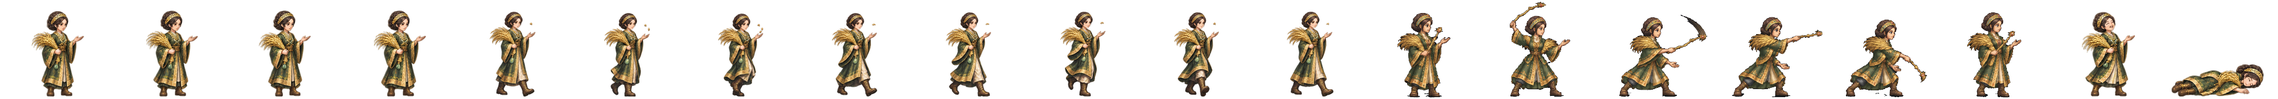
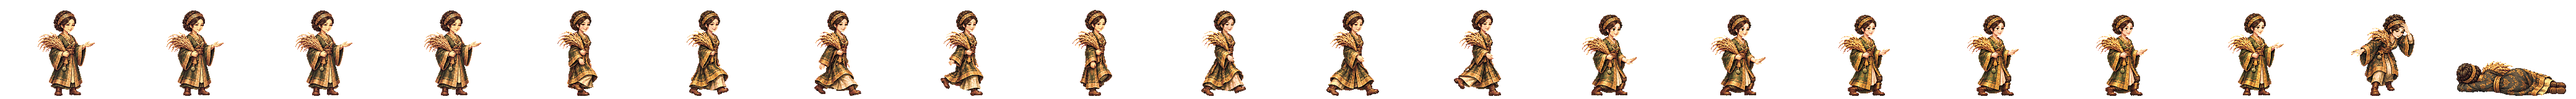
압독 왕비 새 띠: 벼 한 단을 끼고 빈 손바닥으로 곡식 기운을 미는 걷기·시전·개성·맞음·쓰러짐 (띠 검사 합격 · 옛 2배 띠 연결 뺌)
Claude-Session: https://claude.ai/code/session_01TRiuN7s6aDfSnaHxrkctmU

diff --git a/src/realm/data/spritePx.ts b/src/realm/data/spritePx.ts
@@ -1,3 +1,3 @@
 /** public/realm/anim-px/manifest.json 의 사본 — tools/sprite-normalize.mjs 가 만든다 (손으로 고치지 말 것). 칸 [가로, 세로] · feet = 발 줄(칸 위에서 y) · bodyPx = 서 있는 몸 키 */
 import { expandManifest } from './sprite-manifest.ts'
-export const SPRITE_PX: Readonly<Record<string, { readonly cell: readonly [number, number]; readonly feet: number; readonly bodyPx: number; readonly kind: 'general' | 'soldier' | 'folk' | 'crowd'; readonly cells: number }>> = expandManifest<{ readonly cell: readonly [number, number]; readonly feet: number; readonly bodyPx: number; readonly kind: 'general' | 'soldier' | 'folk' | 'crowd'; readonly cells: number }>([{"cell":[166,128],"feet":126,"bodyPx":124,"kind":"soldier","cells":20},{"cell":[116,128],"feet":126,"bodyPx":117,"kind":"soldier","cells":20},{"cell":[127,128],"feet":126,"bodyPx":116,"kind":"soldier","cells":20},{"cell":[269,128],"feet":126,"bodyPx":126,"kind":"soldier","cells":20},{"cell":[503,128],"feet":126,"bodyPx":127,"kind":"soldier","cells":20},{"cell":[614,128],"feet":126,"bodyPx":126,"kind":"soldier","cells":20},{"cell":[200,160],"feet":156,"bodyPx":138,"kind":"general","cells":20},{"cell":[208,160],"feet":155,"bodyPx":138,"kind":"general","cells":20},{"cell":[208,160],"feet":154,"bodyPx":138,"kind":"general","cells":20},{"cell":[304,160],"feet":155,"bodyPx":135,"kind":"general","cells":20},{"cell":[184,160],"feet":156,"bodyPx":138,"kind":"general","cells":20},{"cell":[208,160],"feet":154,"bodyPx":136,"kind":"general","cells":20},{"cell":[232,160],"feet":156,"bodyPx":138,"kind":"general","cells":20},{"cell":[208,160],"feet":156,"bodyPx":138,"kind":"general","cells":20},{"cell":[168,160],"feet":156,"bodyPx":124,"kind":"general","cells":20},{"cell":[216,160],"feet":156,"bodyPx":130,"kind":"general","cells":20},{"cell":[200,160],"feet":156,"bodyPx":116,"kind":"general","cells":20},{"cell":[192,160],"feet":156,"bodyPx":138,"kind":"general","cells":20},{"cell":[208,160],"feet":154,"bodyPx":135,"kind":"general","cells":20},{"cell":[280,160],"feet":156,"bodyPx":138,"kind":"general","cells":20},{"cell":[232,160],"feet":156,"bodyPx":134,"kind":"general","cells":20},{"cell":[144,160],"feet":156,"bodyPx":70,"kind":"general","cells":20},{"cell":[208,160],"feet":156,"bodyPx":70,"kind":"general","cells":20},{"cell":[192,160],"feet":156,"bodyPx":70,"kind":"general","cells":20},{"cell":[240,160],"feet":155,"bodyPx":138,"kind":"general","cells":20},{"cell":[192,160],"feet":156,"bodyPx":128,"kind":"general","cells":20},{"cell":[224,160],"feet":155,"bodyPx":138,"kind":"general","cells":20},{"cell":[208,160],"feet":154,"bodyPx":137,"kind":"general","cells":20},{"cell":[216,160],"feet":156,"bodyPx":138,"kind":"general","cells":20},{"cell":[208,160],"feet":156,"bodyPx":134,"kind":"general","cells":20},{"cell":[208,160],"feet":154,"bodyPx":130,"kind":"general","cells":20},{"cell":[248,160],"feet":156,"bodyPx":138,"kind":"general","cells":20},{"cell":[248,160],"feet":155,"bodyPx":138,"kind":"general","cells":20},{"cell":[192,160],"feet":155,"bodyPx":138,"kind":"general","cells":20},{"cell":[192,160],"feet":156,"bodyPx":124,"kind":"general","cells":20},{"cell":[208,160],"feet":154,"bodyPx":131,"kind":"general","cells":20},{"cell":[256,160],"feet":156,"bodyPx":138,"kind":"general","cells":20},{"cell":[240,160],"feet":156,"bodyPx":138,"kind":"general","cells":20},{"cell":[232,160],"feet":156,"bodyPx":139,"kind":"general","cells":20},{"cell":[232,160],"feet":156,"bodyPx":73,"kind":"general","cells":20},{"cell":[264,160],"feet":156,"bodyPx":138,"kind":"general","cells":20},{"cell":[224,160],"feet":156,"bodyPx":138,"kind":"general","cells":20},{"cell":[224,160],"feet":156,"bodyPx":128,"kind":"general","cells":20},{"cell":[176,160],"feet":156,"bodyPx":129,"kind":"general","cells":20},{"cell":[208,160],"feet":154,"bodyPx":139,"kind":"general","cells":20},{"cell":[232,160],"feet":155,"bodyPx":138,"kind":"general","cells":20},{"cell":[208,160],"feet":156,"bodyPx":132,"kind":"general","cells":20},{"cell":[184,160],"feet":156,"bodyPx":122,"kind":"general","cells":20},{"cell":[280,160],"feet":155,"bodyPx":133,"kind":"general","cells":20},{"cell":[176,160],"feet":156,"bodyPx":70,"kind":"general","cells":20},{"cell":[186,128],"feet":126,"bodyPx":127,"kind":"soldier","cells":20},{"cell":[298,128],"feet":126,"bodyPx":126,"kind":"soldier","cells":20},{"cell":[82,128],"feet":126,"bodyPx":114,"kind":"folk","cells":8},{"cell":[134,128],"feet":126,"bodyPx":119,"kind":"soldier","cells":20},{"cell":[380,128],"feet":126,"bodyPx":124,"kind":"soldier","cells":20},{"cell":[114,128],"feet":126,"bodyPx":115,"kind":"soldier","cells":20},{"cell":[122,128],"feet":126,"bodyPx":114,"kind":"soldier","cells":20},{"cell":[254,128],"feet":126,"bodyPx":128,"kind":"soldier","cells":20},{"cell":[438,128],"feet":126,"bodyPx":126,"kind":"soldier","cells":20},{"cell":[88,128],"feet":126,"bodyPx":113,"kind":"folk","cells":8},{"cell":[100,128],"feet":126,"bodyPx":115,"kind":"folk","cells":8},{"cell":[108,128],"feet":126,"bodyPx":115,"kind":"folk","cells":8},{"cell":[63,128],"feet":126,"bodyPx":113,"kind":"folk","cells":8},{"cell":[69,96],"feet":96,"bodyPx":96,"kind":"crowd","cells":1},{"cell":[54,96],"feet":96,"bodyPx":96,"kind":"crowd","cells":1},{"cell":[47,96],"feet":96,"bodyPx":96,"kind":"crowd","cells":1},{"cell":[49,96],"feet":96,"bodyPx":96,"kind":"crowd","cells":1},{"cell":[57,96],"feet":96,"bodyPx":96,"kind":"crowd","cells":1},{"cell":[55,96],"feet":96,"bodyPx":96,"kind":"crowd","cells":1},{"cell":[45,96],"feet":96,"bodyPx":96,"kind":"crowd","cells":1},{"cell":[53,96],"feet":96,"bodyPx":96,"kind":"crowd","cells":1},{"cell":[64,96],"feet":96,"bodyPx":96,"kind":"crowd","cells":1},{"cell":[184,160],"feet":156,"bodyPx":124,"kind":"general","cells":20},{"cell":[208,160],"feet":154,"bodyPx":134,"kind":"general","cells":20},{"cell":[224,160],"feet":156,"bodyPx":133,"kind":"general","cells":20},{"cell":[192,160],"feet":156,"bodyPx":135,"kind":"general","cells":20},{"cell":[184,160],"feet":156,"bodyPx":137,"kind":"general","cells":20},{"cell":[176,160],"feet":156,"bodyPx":130,"kind":"general","cells":20},{"cell":[216,160],"feet":156,"bodyPx":134,"kind":"general","cells":20},{"cell":[216,160],"feet":156,"bodyPx":132,"kind":"general","cells":20},{"cell":[288,160],"feet":156,"bodyPx":138,"kind":"general","cells":20},{"cell":[192,160],"feet":156,"bodyPx":118,"kind":"general","cells":20},{"cell":[208,160],"feet":154,"bodyPx":132,"kind":"general","cells":20},{"cell":[208,160],"feet":154,"bodyPx":128,"kind":"general","cells":20},{"cell":[240,160],"feet":156,"bodyPx":128,"kind":"general","cells":20},{"cell":[184,160],"feet":156,"bodyPx":132,"kind":"general","cells":20},{"cell":[208,160],"feet":156,"bodyPx":123,"kind":"general","cells":20},{"cell":[176,160],"feet":156,"bodyPx":116,"kind":"general","cells":20},{"cell":[272,160],"feet":156,"bodyPx":138,"kind":"general","cells":20},{"cell":[176,160],"feet":156,"bodyPx":138,"kind":"general","cells":20},{"cell":[176,160],"feet":156,"bodyPx":122,"kind":"general","cells":20},{"cell":[232,160],"feet":156,"bodyPx":127,"kind":"general","cells":20},{"cell":[184,160],"feet":156,"bodyPx":134,"kind":"general","cells":20},{"cell":[168,160],"feet":156,"bodyPx":138,"kind":"general","cells":20},{"cell":[176,160],"feet":156,"bodyPx":137,"kind":"general","cells":20},{"cell":[184,160],"feet":156,"bodyPx":133,"kind":"general","cells":20}],[["axe",0],["bandit-chief",1],["bandit-club",2],["boat",3],["bow",4],["crossbow",5],["gen-adogan",6],["gen-alpyeong",7],["gen-ara",8],["gen-areum",8],["gen-aryeong",9],["gen-bakdal",8],["gen-baram",8],["gen-bdanbi",10],["gen-beom",11],["gen-beombal",8],["gen-beomi",8],["gen-bira",12],["gen-biryu",13],["gen-budeul",8],["gen-byeol",8],["gen-daemusin",14],["gen-daeso",15],["gen-dallae2",10],["gen-dalli",8],["gen-damul",16],["gen-danbi",8],["gen-dangung",17],["gen-darae",18],["gen-dokmudeom",8],["gen-duman",19],["gen-eomni",8],["gen-eureum",20],["gen-g-bow",21],["gen-g-spear",22],["gen-g-sword",23],["gen-gaennae",8],["gen-gamsil",24],["gen-gaon",18],["gen-geota",13],["gen-geumbawi",10],["gen-geumha",25],["gen-goeun",13],["gen-gom",26],["gen-gomok",13],["gen-gureum",8],["gen-guryema",17],["gen-gwaeyu",12],["gen-haebi",8],["gen-haedal",6],["gen-haesol",8],["gen-halla",27],["gen-heo",8],["gen-hneoul",10],["gen-hogong",28],["gen-hojin",13],["gen-horselord",29],["gen-hwalmi",30],["gen-hyeokgeose",17],["gen-hyeopbo",6],["gen-irang",8],["gen-jibaekho",31],["gen-jinha",32],["gen-jita",33],["gen-jumong",34],["gen-keundol",7],["gen-maehwa",35],["gen-maenun",17],["gen-malgalgi",36],["gen-mari",37],["gen-maro",31],["gen-maryeo",13],["gen-mdallae",38],["gen-mir",6],["gen-mount",39],["gen-mulbeom",27],["gen-mulsae",27],["gen-musoe",28],["gen-noeul",8],["gen-nuri",40],["gen-ocheongan",41],["gen-odi",8],["gen-odogan",6],["gen-ogan",17],["gen-oi",42],["gen-olddaeso",20],["gen-onjo",43],["gen-pidogan",13],["gen-sagong",44],["gen-sdallae",6],["gen-sincheongan",8],["gen-singwigan",28],["gen-sinneoul",8],["gen-sobeol",45],["gen-soebi",6],["gen-soebo",46],["gen-soenun",44],["gen-sogeumbi",27],["gen-songbi",41],["gen-songyang",47],["gen-sori",8],["gen-soseono",48],["gen-suro",17],["gen-tahae",6],["gen-tneoul",8],["gen-w-bow",21],["gen-w-spear",49],["gen-waechief",13],["gen-wan",28],["gen-yeodogan",13],["gen-yucheongan",8],["gen-yusugan",31],["horse",50],["marine",51],["migrant",52],["militia",53],["pike",54],["pirate-captain",55],["pirate-sword",56],["shield",57],["spear",58],["villager-builder",59],["villager-farmer",60],["villager-porter",61],["villager-woman",62],["crowd-b1",63],["crowd-b2",64],["crowd-b3",65],["crowd-b4",66],["crowd-b5",67],["crowd-b6",68],["crowd-f1",63],["crowd-f2",68],["crowd-f3",69],["crowd-f4",70],["crowd-f5",63],["crowd-f6",71],["gen-dalbit",13],["gen-base-g-07-drunk-warrior",17],["gen-base-g-40-anya-adan",13],["gen-base-w-13-young-archer",8],["gen-base-g-03-sea-trader",37],["gen-base-w-10-pirate-captain",44],["gen-base-w-64-miri-dallae",44],["gen-base-g-41-goja-bau",37],["gen-base-g-42-dokro-garam",40],["gen-base-g-09-farmer-conscript",28],["gen-base-w-02-goguryeo-lady",8],["gen-base-w-17-mahan-pearl-diver",8],["gen-base-g-17-saro-isageum",46],["gen-base-g-18-daegaya-king",72],["gen-base-g-35-dabeol-dalgu",13],["gen-base-g-19-sabeol-veteran",28],["gen-base-w-23-usisan-whale-queen",8],["gen-base-g-36-gammun-gamdol",41],["gen-base-g-20-samul-sea-lord",36],["gen-base-g-37-eumjeup-jeup",10],["gen-base-g-38-chopal-palmae",17],["gen-base-w-75-daegaya-soemoe",17],["gen-base-g-45-dabeol-deulgae",10],["gen-base-g-04-jinhan-giant",13],["gen-base-g-08-veteran",13],["gen-base-w-18-jinhan-salt-widow",8],["gen-base-w-12-court-dancer",73],["gen-base-w-83-gyeonji-beodeul",74],["gen-base-w-05-baekje-queen",75],["gen-base-w-21-baekje-court-dancer",10],["gen-base-g-01-master-smith",76],["gen-base-g-93-jomun-solgae",77],["gen-base-g-57-bihwa-neup",37],["gen-base-w-72-eumjeup-beol",8],["gen-base-w-102-garak-dana",44],["gen-base-g-68-baekje-onnuri",13],["gen-base-w-27-mokji-jinha",6],["gen-base-g-22-ungcheon-gomnae",6],["gen-base-g-23-sangdang-soedal",13],["gen-base-g-24-wansan-onsan",6],["gen-base-g-25-balla-keunmoe",28],["gen-base-g-61-heomcheuk-bawi",28],["gen-base-g-88-wander-soeul",41],["gen-base-w-14-feast-spy",8],["gen-base-g-12-silla-youth",78],["gen-base-w-08-mahan-warrior",8],["gen-base-g-62-beonye-hanul",37],["gen-base-g-63-heomcheuk-beogeum",13],["gen-base-g-84-wander-seoneul",13],["gen-base-w-50-siljik-mulga",28],["gen-base-g-46-uga-nureongso",28],["gen-base-w-80-usan-gangchi",44],["gen-base-g-47-guga-sanyanggae",28],["gen-base-w-76-gampyeong-baetsagong",8],["gen-base-g-05-mahan-chieftain",79],["gen-base-g-58-usan-uhae",13],["gen-base-g-27-maek-maekdol",13],["gen-base-w-53-hwanna-gabi",44],["gen-base-w-29-golpo-janmul",31],["gen-base-g-53-baekje-haeru",6],["gen-base-w-71-yeonna-neoul",8],["gen-base-w-79-yangmaek-solmae",8],["gen-base-w-34-chopal-deulme",8],["gen-base-g-44-maga-malgup",80],["gen-base-w-31-dabeol-dalbit",44],["gen-base-g-51-biryuna-mulgyeol",41],["gen-base-g-48-gwanna-musoe",13],["gen-base-g-32-uga-sodu",12],["gen-base-g-49-goguryeo-sona",81],["gen-base-g-30-gwanna-soemoe",41],["gen-base-g-52-tamna-oreum",10],["gen-base-g-29-yeonna-myeongsol",34],["gen-base-w-56-dongokjeo-sogeum",73],["gen-base-g-54-mokji-mahan",12],["gen-base-g-33-jeoga-metdol",17],["gen-base-w-36-baekje-maena",8],["gen-base-w-38-sangdang-bulmae",6],["gen-base-w-39-gosaburi-galmae",8],["gen-base-w-40-mujin-munui",82],["gen-base-w-41-hwanna-beodeul",83],["gen-base-w-43-uga-nuri",36],["gen-base-w-45-tamna-oreumbi",10],["gen-base-g-60-golbeol-golgae",10],["gen-base-g-61-apdok-ap",28],["gen-base-g-62-gammun-gamnamu",6],["gen-base-g-63-chopal-yeoul",31],["gen-base-g-64-michuhol-sogeumkkun",37],["gen-base-g-65-sangdang-soemangchi",41],["gen-base-g-66-geonma-malbalgup",84],["gen-base-g-67-gosaburi-buri",85],["gen-base-g-68-mujin-bitgoeul",10],["gen-base-g-69-goryong-yong",41],["gen-base-g-70-siljik-pado",37],["gen-base-w-81-byeokjin-byeolbit",8],["gen-base-w-46-geonma-maru",8],["gen-base-w-48-mujin-mudeung",8],["gen-base-g-26-gampyeong-gaetbeol",12],["gen-base-g-60-eupcha-hangyeol",86],["gen-base-g-15-shaman-man",28],["gen-base-g-85-wander-ure",31],["gen-base-g-43-hwanna-amnok",13],["gen-base-g-50-bullae-gwaha",75],["gen-base-g-55-saro-bakdal",13],["gen-base-g-56-haseulla-gwahama",6],["gen-base-w-06-buyeo-huntress",27],["gen-base-w-22-dongye-tiger-huntress",8],["gen-base-w-25-bihwa-priestess",8],["gen-base-w-24-apdok-queen",10],["gen-base-w-61-iseo-sinae",13],["gen-base-w-26-iseo-tomboy-general",8],["gen-base-g-59-yangmaek-maekson",87],["gen-aw1-haebi",41],["gen-aw1-soseono",88],["gen-aw1-gamsil",10],["gen-aw1-mir",89],["gen-aw1-dangung",6],["gen-aw1-ara",41],["gen-aw1-jumong",90],["gen-aw1-onjo",91],["gen-aw1-base-w-83-gyeonji-beodeul",17],["gen-aw1-heo",40],["gen-aw1-base-g-38-chopal-palmae",6],["gen-aw1-base-w-25-bihwa-priestess",92],["gen-aw1-sori",93],["gen-aw1-gomok",6],["gen-aw1-irang",17],["gen-aw1-budeul",93],["gen-aw1-gom",37],["gen-aw1-sdallae",6],["gen-aw1-base-w-13-young-archer",6],["gen-aw1-base-w-36-baekje-maena",94],["gen-aw1-base-g-09-farmer-conscript",40],["gen-aw1-base-w-02-goguryeo-lady",95],["gen-aw1-haedal",10],["gen-aw1-hogong",6],["gen-aw1-maehwa",89],["gen-aw1-base-w-06-buyeo-huntress",12],["gen-aw1-base-w-08-mahan-warrior",41],["gen-aw1-base-w-29-golpo-janmul",41],["gen-aw1-base-w-31-dabeol-dalbit",17],["gen-aw1-base-w-38-sangdang-bulmae",93],["gen-aw1-bira",28],["gen-aw1-base-w-53-hwanna-gabi",93],["gen-aw1-base-w-56-dongokjeo-sogeum",89],["gen-aw1-base-w-72-eumjeup-beol",17],["gen-aw1-bdanbi",93],["gen-aw1-beom",10],["gen-aw1-beombal",10],["gen-aw1-byeol",17],["gen-aw1-dalli",89],["gen-aw1-malgalgi",31],["gen-aw1-sincheongan",28]])
+export const SPRITE_PX: Readonly<Record<string, { readonly cell: readonly [number, number]; readonly feet: number; readonly bodyPx: number; readonly kind: 'general' | 'soldier' | 'folk' | 'crowd'; readonly cells: number }>> = expandManifest<{ readonly cell: readonly [number, number]; readonly feet: number; readonly bodyPx: number; readonly kind: 'general' | 'soldier' | 'folk' | 'crowd'; readonly cells: number }>([{"cell":[166,128],"feet":126,"bodyPx":124,"kind":"soldier","cells":20},{"cell":[116,128],"feet":126,"bodyPx":117,"kind":"soldier","cells":20},{"cell":[127,128],"feet":126,"bodyPx":116,"kind":"soldier","cells":20},{"cell":[269,128],"feet":126,"bodyPx":126,"kind":"soldier","cells":20},{"cell":[503,128],"feet":126,"bodyPx":127,"kind":"soldier","cells":20},{"cell":[614,128],"feet":126,"bodyPx":126,"kind":"soldier","cells":20},{"cell":[200,160],"feet":156,"bodyPx":138,"kind":"general","cells":20},{"cell":[208,160],"feet":155,"bodyPx":138,"kind":"general","cells":20},{"cell":[208,160],"feet":154,"bodyPx":138,"kind":"general","cells":20},{"cell":[304,160],"feet":155,"bodyPx":135,"kind":"general","cells":20},{"cell":[184,160],"feet":156,"bodyPx":138,"kind":"general","cells":20},{"cell":[208,160],"feet":154,"bodyPx":136,"kind":"general","cells":20},{"cell":[232,160],"feet":156,"bodyPx":138,"kind":"general","cells":20},{"cell":[208,160],"feet":156,"bodyPx":138,"kind":"general","cells":20},{"cell":[168,160],"feet":156,"bodyPx":124,"kind":"general","cells":20},{"cell":[216,160],"feet":156,"bodyPx":130,"kind":"general","cells":20},{"cell":[200,160],"feet":156,"bodyPx":116,"kind":"general","cells":20},{"cell":[192,160],"feet":156,"bodyPx":138,"kind":"general","cells":20},{"cell":[208,160],"feet":154,"bodyPx":135,"kind":"general","cells":20},{"cell":[280,160],"feet":156,"bodyPx":138,"kind":"general","cells":20},{"cell":[232,160],"feet":156,"bodyPx":134,"kind":"general","cells":20},{"cell":[144,160],"feet":156,"bodyPx":70,"kind":"general","cells":20},{"cell":[208,160],"feet":156,"bodyPx":70,"kind":"general","cells":20},{"cell":[192,160],"feet":156,"bodyPx":70,"kind":"general","cells":20},{"cell":[240,160],"feet":155,"bodyPx":138,"kind":"general","cells":20},{"cell":[192,160],"feet":156,"bodyPx":128,"kind":"general","cells":20},{"cell":[224,160],"feet":155,"bodyPx":138,"kind":"general","cells":20},{"cell":[208,160],"feet":154,"bodyPx":137,"kind":"general","cells":20},{"cell":[216,160],"feet":156,"bodyPx":138,"kind":"general","cells":20},{"cell":[208,160],"feet":156,"bodyPx":134,"kind":"general","cells":20},{"cell":[208,160],"feet":154,"bodyPx":130,"kind":"general","cells":20},{"cell":[248,160],"feet":156,"bodyPx":138,"kind":"general","cells":20},{"cell":[248,160],"feet":155,"bodyPx":138,"kind":"general","cells":20},{"cell":[192,160],"feet":155,"bodyPx":138,"kind":"general","cells":20},{"cell":[192,160],"feet":156,"bodyPx":124,"kind":"general","cells":20},{"cell":[208,160],"feet":154,"bodyPx":131,"kind":"general","cells":20},{"cell":[256,160],"feet":156,"bodyPx":138,"kind":"general","cells":20},{"cell":[240,160],"feet":156,"bodyPx":138,"kind":"general","cells":20},{"cell":[232,160],"feet":156,"bodyPx":139,"kind":"general","cells":20},{"cell":[232,160],"feet":156,"bodyPx":73,"kind":"general","cells":20},{"cell":[264,160],"feet":156,"bodyPx":138,"kind":"general","cells":20},{"cell":[224,160],"feet":156,"bodyPx":138,"kind":"general","cells":20},{"cell":[224,160],"feet":156,"bodyPx":128,"kind":"general","cells":20},{"cell":[176,160],"feet":156,"bodyPx":129,"kind":"general","cells":20},{"cell":[208,160],"feet":154,"bodyPx":139,"kind":"general","cells":20},{"cell":[232,160],"feet":155,"bodyPx":138,"kind":"general","cells":20},{"cell":[208,160],"feet":156,"bodyPx":132,"kind":"general","cells":20},{"cell":[184,160],"feet":156,"bodyPx":122,"kind":"general","cells":20},{"cell":[280,160],"feet":155,"bodyPx":133,"kind":"general","cells":20},{"cell":[176,160],"feet":156,"bodyPx":70,"kind":"general","cells":20},{"cell":[186,128],"feet":126,"bodyPx":127,"kind":"soldier","cells":20},{"cell":[298,128],"feet":126,"bodyPx":126,"kind":"soldier","cells":20},{"cell":[82,128],"feet":126,"bodyPx":114,"kind":"folk","cells":8},{"cell":[134,128],"feet":126,"bodyPx":119,"kind":"soldier","cells":20},{"cell":[380,128],"feet":126,"bodyPx":124,"kind":"soldier","cells":20},{"cell":[114,128],"feet":126,"bodyPx":115,"kind":"soldier","cells":20},{"cell":[122,128],"feet":126,"bodyPx":114,"kind":"soldier","cells":20},{"cell":[254,128],"feet":126,"bodyPx":128,"kind":"soldier","cells":20},{"cell":[438,128],"feet":126,"bodyPx":126,"kind":"soldier","cells":20},{"cell":[88,128],"feet":126,"bodyPx":113,"kind":"folk","cells":8},{"cell":[100,128],"feet":126,"bodyPx":115,"kind":"folk","cells":8},{"cell":[108,128],"feet":126,"bodyPx":115,"kind":"folk","cells":8},{"cell":[63,128],"feet":126,"bodyPx":113,"kind":"folk","cells":8},{"cell":[69,96],"feet":96,"bodyPx":96,"kind":"crowd","cells":1},{"cell":[54,96],"feet":96,"bodyPx":96,"kind":"crowd","cells":1},{"cell":[47,96],"feet":96,"bodyPx":96,"kind":"crowd","cells":1},{"cell":[49,96],"feet":96,"bodyPx":96,"kind":"crowd","cells":1},{"cell":[57,96],"feet":96,"bodyPx":96,"kind":"crowd","cells":1},{"cell":[55,96],"feet":96,"bodyPx":96,"kind":"crowd","cells":1},{"cell":[45,96],"feet":96,"bodyPx":96,"kind":"crowd","cells":1},{"cell":[53,96],"feet":96,"bodyPx":96,"kind":"crowd","cells":1},{"cell":[64,96],"feet":96,"bodyPx":96,"kind":"crowd","cells":1},{"cell":[184,160],"feet":156,"bodyPx":124,"kind":"general","cells":20},{"cell":[208,160],"feet":154,"bodyPx":134,"kind":"general","cells":20},{"cell":[224,160],"feet":156,"bodyPx":133,"kind":"general","cells":20},{"cell":[192,160],"feet":156,"bodyPx":135,"kind":"general","cells":20},{"cell":[184,160],"feet":156,"bodyPx":137,"kind":"general","cells":20},{"cell":[176,160],"feet":156,"bodyPx":130,"kind":"general","cells":20},{"cell":[216,160],"feet":156,"bodyPx":134,"kind":"general","cells":20},{"cell":[216,160],"feet":156,"bodyPx":132,"kind":"general","cells":20},{"cell":[288,160],"feet":156,"bodyPx":138,"kind":"general","cells":20},{"cell":[192,160],"feet":156,"bodyPx":118,"kind":"general","cells":20},{"cell":[208,160],"feet":154,"bodyPx":132,"kind":"general","cells":20},{"cell":[208,160],"feet":154,"bodyPx":128,"kind":"general","cells":20},{"cell":[240,160],"feet":156,"bodyPx":128,"kind":"general","cells":20},{"cell":[184,160],"feet":156,"bodyPx":132,"kind":"general","cells":20},{"cell":[208,160],"feet":156,"bodyPx":123,"kind":"general","cells":20},{"cell":[176,160],"feet":156,"bodyPx":116,"kind":"general","cells":20},{"cell":[272,160],"feet":156,"bodyPx":138,"kind":"general","cells":20},{"cell":[176,160],"feet":156,"bodyPx":138,"kind":"general","cells":20},{"cell":[176,160],"feet":156,"bodyPx":122,"kind":"general","cells":20},{"cell":[232,160],"feet":156,"bodyPx":127,"kind":"general","cells":20},{"cell":[184,160],"feet":156,"bodyPx":134,"kind":"general","cells":20},{"cell":[168,160],"feet":156,"bodyPx":138,"kind":"general","cells":20},{"cell":[176,160],"feet":156,"bodyPx":137,"kind":"general","cells":20},{"cell":[184,160],"feet":156,"bodyPx":133,"kind":"general","cells":20}],[["axe",0],["bandit-chief",1],["bandit-club",2],["boat",3],["bow",4],["crossbow",5],["gen-adogan",6],["gen-alpyeong",7],["gen-ara",8],["gen-areum",8],["gen-aryeong",9],["gen-bakdal",8],["gen-baram",8],["gen-bdanbi",10],["gen-beom",11],["gen-beombal",8],["gen-beomi",8],["gen-bira",12],["gen-biryu",13],["gen-budeul",8],["gen-byeol",8],["gen-daemusin",14],["gen-daeso",15],["gen-dallae2",10],["gen-dalli",8],["gen-damul",16],["gen-danbi",8],["gen-dangung",17],["gen-darae",18],["gen-dokmudeom",8],["gen-duman",19],["gen-eomni",8],["gen-eureum",20],["gen-g-bow",21],["gen-g-spear",22],["gen-g-sword",23],["gen-gaennae",8],["gen-gamsil",24],["gen-gaon",18],["gen-geota",13],["gen-geumbawi",10],["gen-geumha",25],["gen-goeun",13],["gen-gom",26],["gen-gomok",13],["gen-gureum",8],["gen-guryema",17],["gen-gwaeyu",12],["gen-haebi",8],["gen-haedal",6],["gen-haesol",8],["gen-halla",27],["gen-heo",8],["gen-hneoul",10],["gen-hogong",28],["gen-hojin",13],["gen-horselord",29],["gen-hwalmi",30],["gen-hyeokgeose",17],["gen-hyeopbo",6],["gen-irang",8],["gen-jibaekho",31],["gen-jinha",32],["gen-jita",33],["gen-jumong",34],["gen-keundol",7],["gen-maehwa",35],["gen-maenun",17],["gen-malgalgi",36],["gen-mari",37],["gen-maro",31],["gen-maryeo",13],["gen-mdallae",38],["gen-mir",6],["gen-mount",39],["gen-mulbeom",27],["gen-mulsae",27],["gen-musoe",28],["gen-noeul",8],["gen-nuri",40],["gen-ocheongan",41],["gen-odi",8],["gen-odogan",6],["gen-ogan",17],["gen-oi",42],["gen-olddaeso",20],["gen-onjo",43],["gen-pidogan",13],["gen-sagong",44],["gen-sdallae",6],["gen-sincheongan",8],["gen-singwigan",28],["gen-sinneoul",8],["gen-sobeol",45],["gen-soebi",6],["gen-soebo",46],["gen-soenun",44],["gen-sogeumbi",27],["gen-songbi",41],["gen-songyang",47],["gen-sori",8],["gen-soseono",48],["gen-suro",17],["gen-tahae",6],["gen-tneoul",8],["gen-w-bow",21],["gen-w-spear",49],["gen-waechief",13],["gen-wan",28],["gen-yeodogan",13],["gen-yucheongan",8],["gen-yusugan",31],["horse",50],["marine",51],["migrant",52],["militia",53],["pike",54],["pirate-captain",55],["pirate-sword",56],["shield",57],["spear",58],["villager-builder",59],["villager-farmer",60],["villager-porter",61],["villager-woman",62],["crowd-b1",63],["crowd-b2",64],["crowd-b3",65],["crowd-b4",66],["crowd-b5",67],["crowd-b6",68],["crowd-f1",63],["crowd-f2",68],["crowd-f3",69],["crowd-f4",70],["crowd-f5",63],["crowd-f6",71],["gen-dalbit",13],["gen-base-g-07-drunk-warrior",17],["gen-base-g-40-anya-adan",13],["gen-base-w-13-young-archer",8],["gen-base-g-03-sea-trader",37],["gen-base-w-10-pirate-captain",44],["gen-base-w-64-miri-dallae",44],["gen-base-g-41-goja-bau",37],["gen-base-g-42-dokro-garam",40],["gen-base-g-09-farmer-conscript",28],["gen-base-w-02-goguryeo-lady",8],["gen-base-w-17-mahan-pearl-diver",8],["gen-base-g-17-saro-isageum",46],["gen-base-g-18-daegaya-king",72],["gen-base-g-35-dabeol-dalgu",13],["gen-base-g-19-sabeol-veteran",28],["gen-base-w-23-usisan-whale-queen",8],["gen-base-g-36-gammun-gamdol",41],["gen-base-g-20-samul-sea-lord",36],["gen-base-g-37-eumjeup-jeup",10],["gen-base-g-38-chopal-palmae",17],["gen-base-w-75-daegaya-soemoe",17],["gen-base-g-45-dabeol-deulgae",10],["gen-base-g-04-jinhan-giant",13],["gen-base-g-08-veteran",13],["gen-base-w-18-jinhan-salt-widow",8],["gen-base-w-12-court-dancer",73],["gen-base-w-83-gyeonji-beodeul",74],["gen-base-w-05-baekje-queen",75],["gen-base-w-21-baekje-court-dancer",10],["gen-base-g-01-master-smith",76],["gen-base-g-93-jomun-solgae",77],["gen-base-g-57-bihwa-neup",37],["gen-base-w-72-eumjeup-beol",8],["gen-base-w-102-garak-dana",44],["gen-base-g-68-baekje-onnuri",13],["gen-base-w-27-mokji-jinha",6],["gen-base-g-22-ungcheon-gomnae",6],["gen-base-g-23-sangdang-soedal",13],["gen-base-g-24-wansan-onsan",6],["gen-base-g-25-balla-keunmoe",28],["gen-base-g-61-heomcheuk-bawi",28],["gen-base-g-88-wander-soeul",41],["gen-base-w-14-feast-spy",8],["gen-base-g-12-silla-youth",78],["gen-base-w-08-mahan-warrior",8],["gen-base-g-62-beonye-hanul",37],["gen-base-g-63-heomcheuk-beogeum",13],["gen-base-g-84-wander-seoneul",13],["gen-base-w-50-siljik-mulga",28],["gen-base-g-46-uga-nureongso",28],["gen-base-w-80-usan-gangchi",44],["gen-base-g-47-guga-sanyanggae",28],["gen-base-w-76-gampyeong-baetsagong",8],["gen-base-g-05-mahan-chieftain",79],["gen-base-g-58-usan-uhae",13],["gen-base-g-27-maek-maekdol",13],["gen-base-w-53-hwanna-gabi",44],["gen-base-w-29-golpo-janmul",31],["gen-base-g-53-baekje-haeru",6],["gen-base-w-71-yeonna-neoul",8],["gen-base-w-79-yangmaek-solmae",8],["gen-base-w-34-chopal-deulme",8],["gen-base-g-44-maga-malgup",80],["gen-base-w-31-dabeol-dalbit",44],["gen-base-g-51-biryuna-mulgyeol",41],["gen-base-g-48-gwanna-musoe",13],["gen-base-g-32-uga-sodu",12],["gen-base-g-49-goguryeo-sona",81],["gen-base-g-30-gwanna-soemoe",41],["gen-base-g-52-tamna-oreum",10],["gen-base-g-29-yeonna-myeongsol",34],["gen-base-w-56-dongokjeo-sogeum",73],["gen-base-g-54-mokji-mahan",12],["gen-base-g-33-jeoga-metdol",17],["gen-base-w-36-baekje-maena",8],["gen-base-w-38-sangdang-bulmae",6],["gen-base-w-39-gosaburi-galmae",8],["gen-base-w-40-mujin-munui",82],["gen-base-w-41-hwanna-beodeul",83],["gen-base-w-43-uga-nuri",36],["gen-base-w-45-tamna-oreumbi",10],["gen-base-g-60-golbeol-golgae",10],["gen-base-g-61-apdok-ap",28],["gen-base-g-62-gammun-gamnamu",6],["gen-base-g-63-chopal-yeoul",31],["gen-base-g-64-michuhol-sogeumkkun",37],["gen-base-g-65-sangdang-soemangchi",41],["gen-base-g-66-geonma-malbalgup",84],["gen-base-g-67-gosaburi-buri",85],["gen-base-g-68-mujin-bitgoeul",10],["gen-base-g-69-goryong-yong",41],["gen-base-g-70-siljik-pado",37],["gen-base-w-81-byeokjin-byeolbit",8],["gen-base-w-46-geonma-maru",8],["gen-base-w-48-mujin-mudeung",8],["gen-base-g-26-gampyeong-gaetbeol",12],["gen-base-g-60-eupcha-hangyeol",86],["gen-base-g-15-shaman-man",28],["gen-base-g-85-wander-ure",31],["gen-base-g-43-hwanna-amnok",13],["gen-base-g-50-bullae-gwaha",75],["gen-base-g-55-saro-bakdal",13],["gen-base-g-56-haseulla-gwahama",6],["gen-base-w-06-buyeo-huntress",27],["gen-base-w-22-dongye-tiger-huntress",8],["gen-base-w-25-bihwa-priestess",8],["gen-base-w-24-apdok-queen",8],["gen-base-w-61-iseo-sinae",13],["gen-base-w-26-iseo-tomboy-general",8],["gen-base-g-59-yangmaek-maekson",87],["gen-aw1-haebi",41],["gen-aw1-soseono",88],["gen-aw1-gamsil",10],["gen-aw1-mir",89],["gen-aw1-dangung",6],["gen-aw1-ara",41],["gen-aw1-jumong",90],["gen-aw1-onjo",91],["gen-aw1-base-w-83-gyeonji-beodeul",17],["gen-aw1-heo",40],["gen-aw1-base-g-38-chopal-palmae",6],["gen-aw1-base-w-25-bihwa-priestess",92],["gen-aw1-sori",93],["gen-aw1-gomok",6],["gen-aw1-irang",17],["gen-aw1-budeul",93],["gen-aw1-gom",37],["gen-aw1-sdallae",6],["gen-aw1-base-w-13-young-archer",6],["gen-aw1-base-w-36-baekje-maena",94],["gen-aw1-base-g-09-farmer-conscript",40],["gen-aw1-base-w-02-goguryeo-lady",95],["gen-aw1-haedal",10],["gen-aw1-hogong",6],["gen-aw1-maehwa",89],["gen-aw1-base-w-06-buyeo-huntress",12],["gen-aw1-base-w-08-mahan-warrior",41],["gen-aw1-base-w-29-golpo-janmul",41],["gen-aw1-base-w-31-dabeol-dalbit",17],["gen-aw1-base-w-38-sangdang-bulmae",93],["gen-aw1-bira",28],["gen-aw1-base-w-53-hwanna-gabi",93],["gen-aw1-base-w-56-dongokjeo-sogeum",89],["gen-aw1-base-w-72-eumjeup-beol",17],["gen-aw1-bdanbi",93],["gen-aw1-beom",10],["gen-aw1-beombal",10],["gen-aw1-byeol",17],["gen-aw1-dalli",89],["gen-aw1-malgalgi",31],["gen-aw1-sincheongan",28]])

diff --git a/src/duel/view.ts b/src/duel/view.ts
@@ -100,7 +100,7 @@ const crowdFront = [1, 2, 3, 4, 5, 6].map((i) => img(`realm/duel/crowd/b${i}.png
 const crowdReady = (set: HTMLImageElement[]): boolean => set.every((im) => im.complete && im.naturalWidth > 0)
 const pxMode = cfg.px !== false && params.get('px') !== '0'
 /** 겨루기 전용 옛 띠(duel/sprites) 대신 열전과 같은 도트 띠(anim-px)를 쓰는 장수 — 두 판에서 같은 모습 · 서기 계획·쓰러지는 칸도 같다 (11-23 범 · 매화 · 달빛 · 11-24 해비 · 아룸) */
-const PX_DUEL: ReadonlySet<string> = new Set(['beom', 'maehwa', 'base-w-31-dabeol-dalbit', 'haebi', 'areum', 'base-w-13-young-archer', 'base-w-10-pirate-captain', 'base-w-17-mahan-pearl-diver', 'base-w-06-buyeo-huntress', 'base-w-64-miri-dallae', 'ara', 'base-w-22-dongye-tiger-huntress', 'noeul', 'sagong', 'sinneoul', 'heo', 'base-w-08-mahan-warrior', 'base-w-23-usisan-whale-queen', 'base-w-26-iseo-tomboy-general', 'base-w-72-eumjeup-beol', 'tneoul', 'odi', 'base-w-76-gampyeong-baetsagong', 'base-w-34-chopal-deulme', 'base-w-102-garak-dana', 'base-w-36-baekje-maena', 'base-w-56-dongokjeo-sogeum', 'budeul', 'base-w-53-hwanna-gabi', 'base-w-18-jinhan-salt-widow', 'beombal', 'irang', 'sogeumbi', 'baram', 'byeol', 'base-w-71-yeonna-neoul', 'base-w-39-gosaburi-galmae', 'base-w-41-hwanna-beodeul', 'base-w-79-yangmaek-solmae', 'base-w-46-geonma-maru', 'base-w-48-mujin-mudeung', 'base-w-80-usan-gangchi', 'base-w-81-byeokjin-byeolbit', 'beomi', 'danbi', 'dalli', 'gureum', 'haesol', 'soenun', 'eomni', 'mulbeom', 'mulsae', 'bakdal', 'darae', 'sori', 'base-w-12-court-dancer', 'hwalmi', 'gaennae', 'dokmudeom', 'base-w-14-feast-spy', 'base-w-25-bihwa-priestess', 'sincheongan', 'base-w-40-mujin-munui', 'halla', 'yucheongan', 'base-w-02-goguryeo-lady', 'gaon'])
+const PX_DUEL: ReadonlySet<string> = new Set(['beom', 'maehwa', 'base-w-31-dabeol-dalbit', 'haebi', 'areum', 'base-w-13-young-archer', 'base-w-10-pirate-captain', 'base-w-17-mahan-pearl-diver', 'base-w-06-buyeo-huntress', 'base-w-64-miri-dallae', 'ara', 'base-w-22-dongye-tiger-huntress', 'noeul', 'sagong', 'sinneoul', 'heo', 'base-w-08-mahan-warrior', 'base-w-23-usisan-whale-queen', 'base-w-26-iseo-tomboy-general', 'base-w-72-eumjeup-beol', 'tneoul', 'odi', 'base-w-76-gampyeong-baetsagong', 'base-w-34-chopal-deulme', 'base-w-102-garak-dana', 'base-w-36-baekje-maena', 'base-w-56-dongokjeo-sogeum', 'budeul', 'base-w-53-hwanna-gabi', 'base-w-18-jinhan-salt-widow', 'beombal', 'irang', 'sogeumbi', 'baram', 'byeol', 'base-w-71-yeonna-neoul', 'base-w-39-gosaburi-galmae', 'base-w-41-hwanna-beodeul', 'base-w-79-yangmaek-solmae', 'base-w-46-geonma-maru', 'base-w-48-mujin-mudeung', 'base-w-80-usan-gangchi', 'base-w-81-byeokjin-byeolbit', 'beomi', 'danbi', 'dalli', 'gureum', 'haesol', 'soenun', 'eomni', 'mulbeom', 'mulsae', 'bakdal', 'darae', 'sori', 'base-w-12-court-dancer', 'hwalmi', 'gaennae', 'dokmudeom', 'base-w-14-feast-spy', 'base-w-25-bihwa-priestess', 'sincheongan', 'base-w-40-mujin-munui', 'halla', 'yucheongan', 'base-w-02-goguryeo-lady', 'gaon', 'base-w-24-apdok-queen'])
 /** 띠 그림 — 기본은 anim-px(도트 규격) 먼저, 없으면 옛 띠로 (img 의 onerror 가 갈아 끼운다) */
 const strip = (s: string): HTMLImageElement => pxMode
   ? DUEL_ATLASES[s] !== undefined && !PX_DUEL.has(s) ? img(`realm/duel/sprites/gen-${s}.png`, `realm/anim-px/gen-${s}.png`)

diff --git a/src/tune/params.ts b/src/tune/params.ts
@@ -1527,6 +1527,7 @@ export const HAEBI_IDLE = {
     yucheongan: { cells: 38, base: [0, 1], hold: 2.4, fall: [18, 20, 21, 19], quirk: [22, 23, 24, 25], quirkTimes: [.3, .32, .4, .28], attack: { cells: [26, 27, 28, 29, 30, 31, 32, 33], times: [.09, .08, .30, .05, .15, .07, .08, .12], hit: 4 }, hurt: [34, 35], rise: [36, 37], xGeom: { h: 224, root: 92, foot: 216 } },
     'base-w-02-goguryeo-lady': { cells: 38, base: [0, 1], hold: 2.4, fall: [18, 20, 21, 19], quirk: [22, 23, 24, 25], quirkTimes: [.3, .32, .4, .28], attack: { cells: [26, 27, 28, 29, 30, 31, 32, 33], times: [.09, .08, .30, .05, .15, .07, .08, .12], hit: 4 }, hurt: [34, 35], rise: [36, 37], xGeom: { h: 224, root: 92, foot: 216 } },
     gaon: { cells: 38, base: [0, 1], hold: 2.4, fall: [18, 20, 21, 19], quirk: [22, 23, 24, 25], quirkTimes: [.3, .32, .4, .28], attack: { cells: [26, 27, 28, 29, 30, 31, 32, 33], times: [.09, .08, .30, .05, .15, .07, .08, .12], hit: 4 }, hurt: [34, 35], rise: [36, 37], xGeom: { h: 224, root: 92, foot: 216 } },
+    'base-w-24-apdok-queen': { cells: 38, base: [0, 1], hold: 2.4, fall: [18, 20, 21, 19], quirk: [22, 23, 24, 25], quirkTimes: [.3, .32, .4, .28], attack: { cells: [26, 27, 28, 29, 30, 31, 32, 33], times: [.09, .08, .30, .05, .15, .07, .08, .12], hit: 4 }, hurt: [34, 35], rise: [36, 37], xGeom: { h: 224, root: 92, foot: 216 } },
   },
 } as const
 export const HAEBI_ANIM = {

diff --git a/src/raid/hero-hd.ts b/src/raid/hero-hd.ts
@@ -24,7 +24,6 @@ export const HERO_HD: Readonly<Record<string, string>> = {
   'anim-px/gen-aw1-base-w-31-dabeol-dalbit.png': 'anim-px/gen-aw1-base-w-31-dabeol-dalbit_hd.png',
   'anim-px/gen-aw1-base-w-29-golpo-janmul.png': 'anim-px/gen-aw1-base-w-29-golpo-janmul_hd.png',
   'anim-px/gen-aw1-base-w-25-bihwa-priestess.png': 'anim-px/gen-aw1-base-w-25-bihwa-priestess_hd.png',
-  'anim-px/gen-base-w-24-apdok-queen.png': 'anim-px/gen-base-w-24-apdok-queen_hd.png',
   'anim-px/gen-base-w-21-baekje-court-dancer.png': 'anim-px/gen-base-w-21-baekje-court-dancer_hd.png',
   'anim-px/gen-aw1-base-w-13-young-archer.png': 'anim-px/gen-aw1-base-w-13-young-archer_hd.png',
   'anim-px/gen-aw1-base-w-08-mahan-warrior.png': 'anim-px/gen-aw1-base-w-08-mahan-warrior_hd.png',
